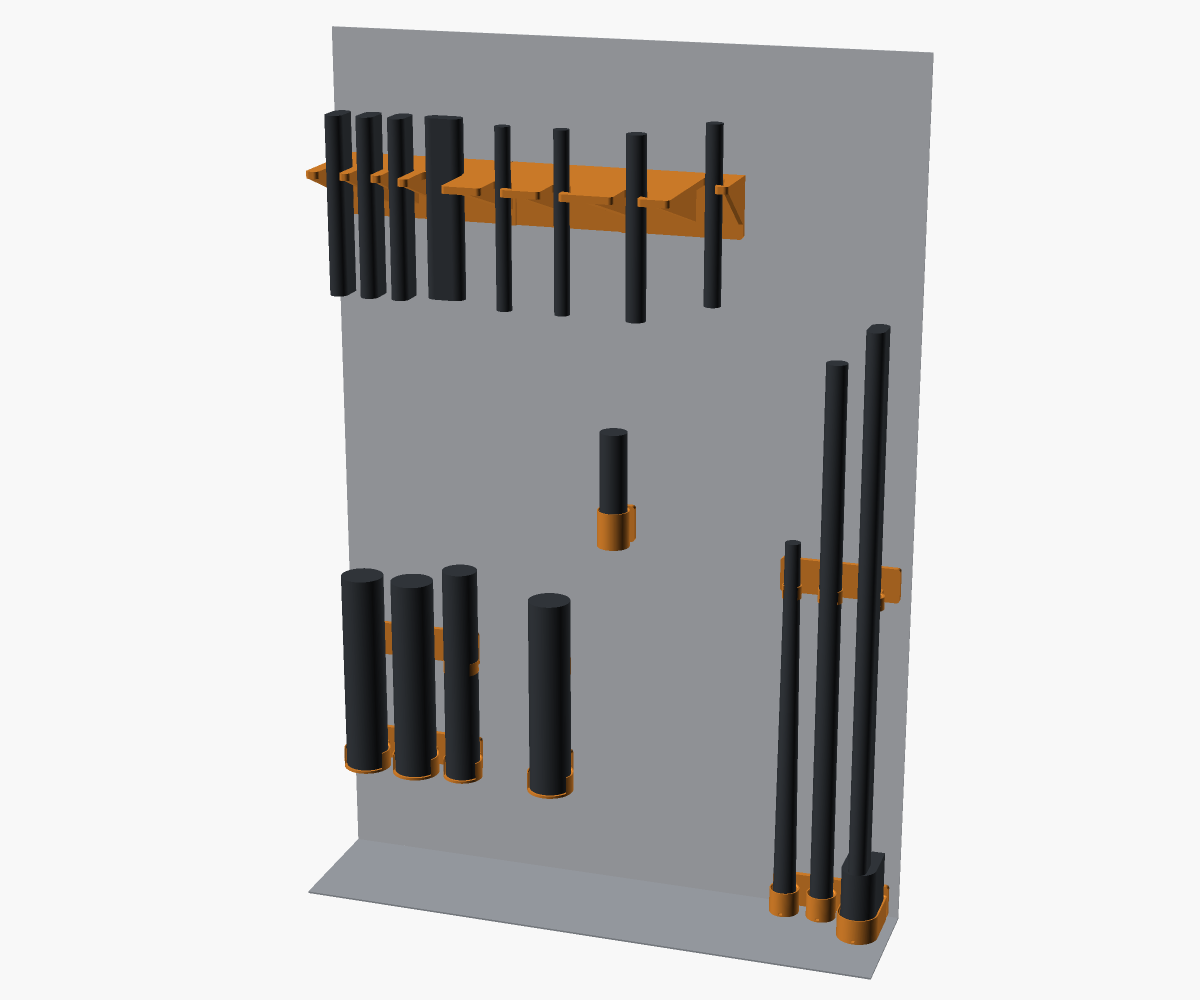
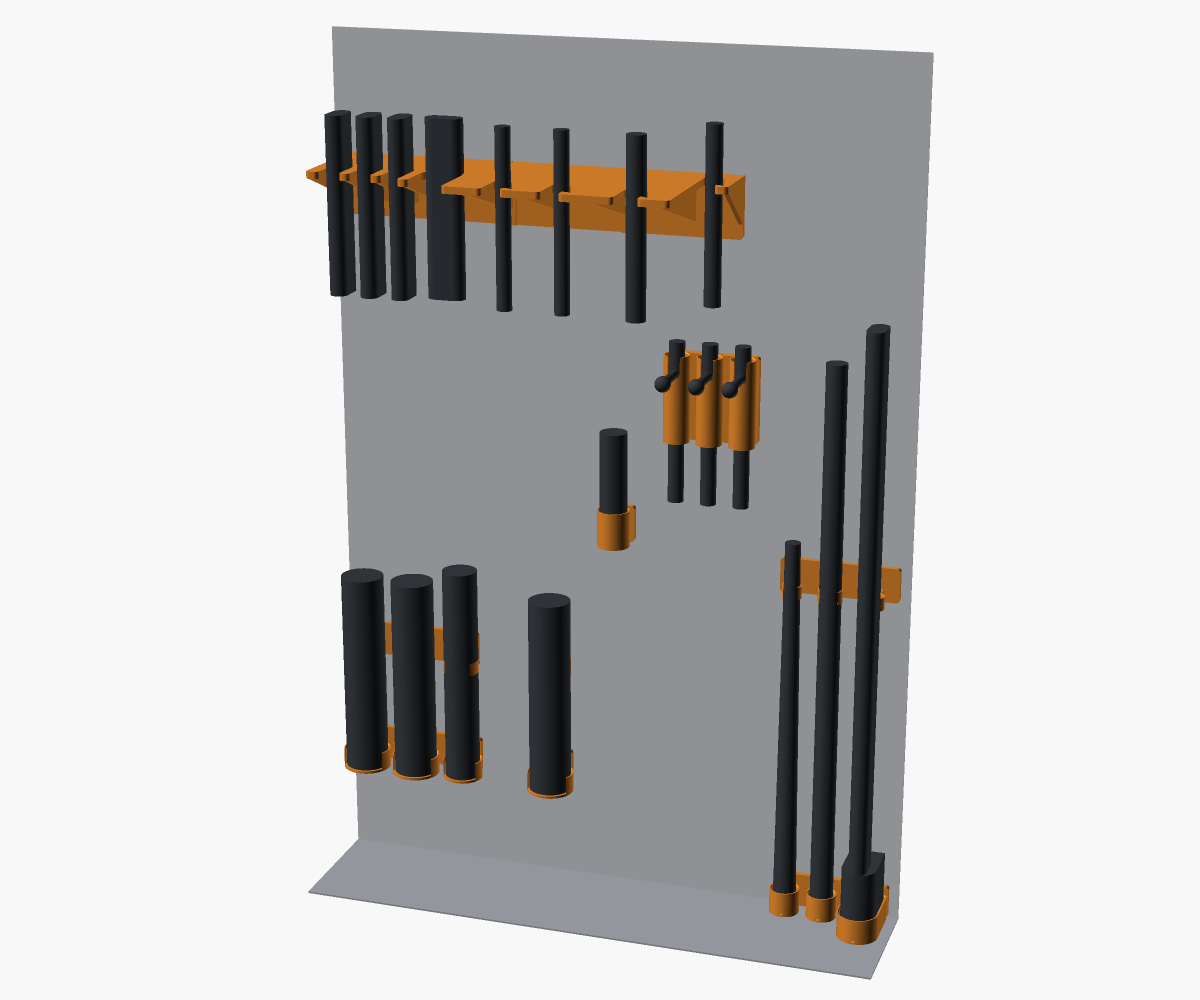
Add the bolt holder: a tube per bolt with a U slot for the handle
New safe model cad/safe/bolt_holder.scad on wall_row and holder_row:
open bottom tubes, a U notch at the top facing front (slot_angle turns
it), two magnets per holder stacked vertically, modular by default.
cad/my_safe/bolts.scad sets up three slots for the Sauer 202, Tikka T3
Lite and Bergara B14R at the defaults until measured. The assembly hangs
stand-in bolts in it; README lists the model.

Changed region(s): [[0.5242, 0.341, 0.6475, 0.527]]

diff --git a/README.md b/README.md
@@ -12,8 +12,11 @@ magnets, so nothing is drilled into the safe:
   groove in each cup floor runs out the front, so moisture drains and
   air reaches the breech.
 - Gun rack: a comb shelf for the top of the safe
+- Bolt holder: a tube per bolt, open at the bottom, with a slot in the
+  top of its front wall. The bolt hangs by its handle in the round end
+  of the slot, so any bolt length fits.
 
-![The safe models on a stretch of safe wall with stand-in rifles, barrels and suppressors](main_assembly.png)
+![The safe models on a stretch of safe wall with stand-in rifles, barrels, suppressors and bolts](main_assembly.png)
 
 Every slot is configured on its own: diameter, distance from the safe
 wall and gap to its neighbour. Three break action shotguns can sit tight
@@ -35,6 +38,7 @@ Status: early prototypes. Dimensions are still being tuned.
 | Suppressor holder (cradle and clip) | `cad/safe/suppressor_holder.scad` | upright, as modeled |
 | Barrel holder (cup and clip) | `cad/safe/barrel_holder.scad` | upright, as modeled |
 | Gun rack | `cad/safe/gun_rack.scad` | shelf down, as modeled |
+| Bolt holder | `cad/safe/bolt_holder.scad` | upright, as modeled |
 | Magnet pocket gauge | `cad/calibration/magnet_pocket_gauge.scad` | as modeled |
 | Dovetail gauge | `cad/calibration/dovetail_gauge.scad` | as modeled |
 | Fit gauge (rings, rack slots, oblong cups) | `cad/calibration/fit_gauge.scad` | flat, as modeled |
